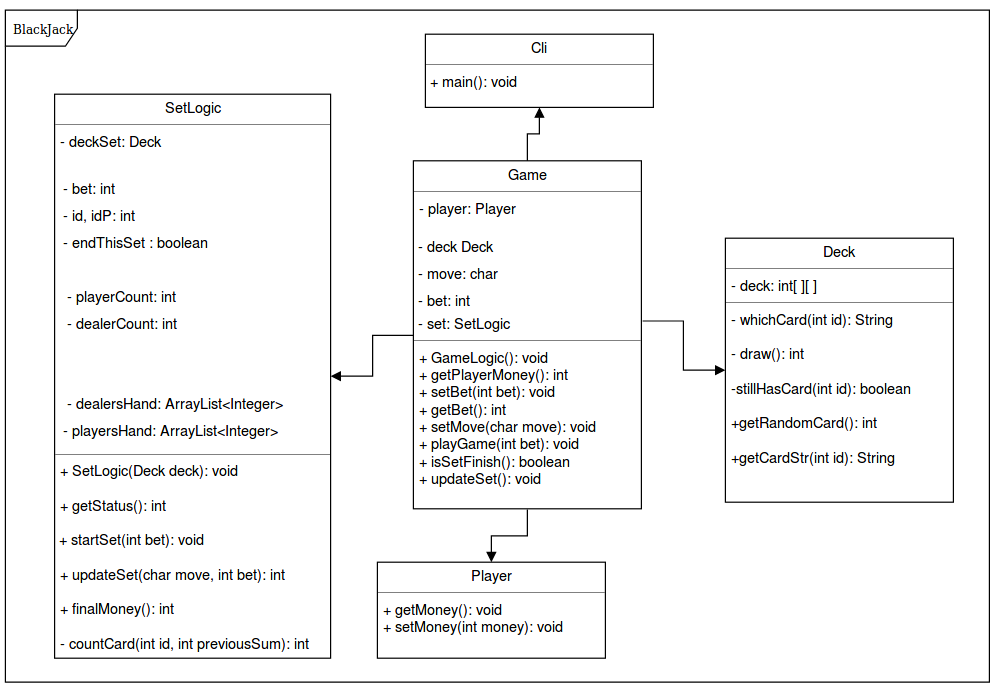
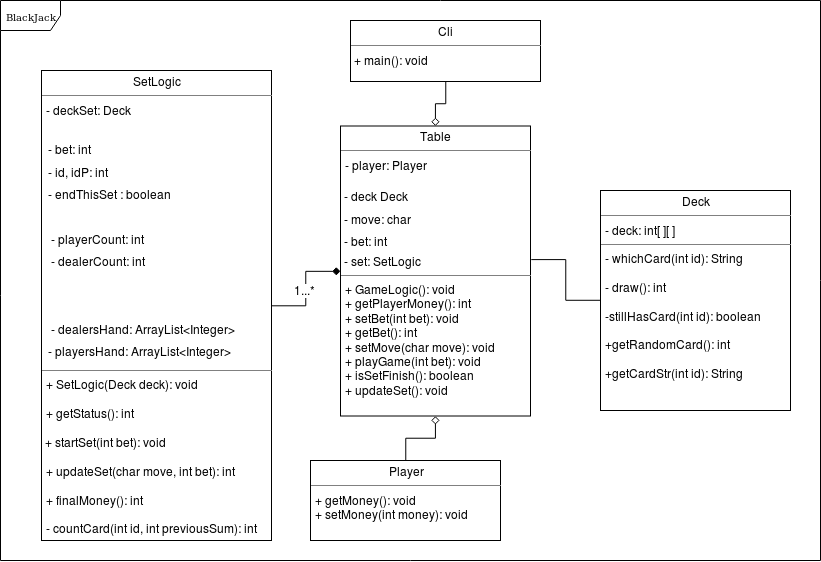
updated UMLs

Changed region(s): [[0.0, 0.0, 1.0, 0.9982], [0.7308, 0.605, 0.9135, 0.6957], [0.7308, 0.726, 0.944, 0.7562]]

diff --git a/BlackJack/bj/logic/Table.java b/BlackJack/bj/logic/Table.java
@@ -1,6 +1,6 @@
 package bj.logic;
 
-public class GameLogic {
+public class Table {
 
     private Player player;
     private Deck deck;
@@ -8,7 +8,7 @@ public class GameLogic {
     private int bet=0;
     private SetLogic set;
 
-    public void GameLogic(){
+    public Table(){
        this.player = new Player();
        this.deck =new Deck();
    }

diff --git a/BlackJack/bj/cli/Cli.java b/BlackJack/bj/cli/Cli.java
@@ -34,7 +34,7 @@ Game Rules:
         boolean play = true;
         int bet;
         char move;
-        GameLogic game = new GameLogic();
+        Table game = new Table();
         boolean betAgain = false;
 
         while (play) {

diff --git a/BlackJack/bj/logic/SetLogic.java b/BlackJack/bj/logic/SetLogic.java
@@ -17,7 +17,7 @@ public class SetLogic {
 
 
     //begining of a set
-    public void SetLogic(Deck deck) {
+    public SetLogic(Deck deck) {
         this.deckSet = deck;
     }
 

diff --git a/README.md b/README.md
@@ -20,7 +20,7 @@ BlackJack Casino Game [here](https://github.com/bgarrido7/FEUP_LPRO/tree/master/
 
 **classes hierarchy first draft:**
 
-<img src="https://github.com/bgarrido7/FEUP_LPRO/blob/master/BlackJack/UMLs/classes%20hierarchy" width="500"><br><br>
+<img src="https://github.com/bgarrido7/FEUP_LPRO/blob/master/BlackJack/UMLs/classesHierarchy.png" width="500"><br><br>
 
 **Game Rules**
 
